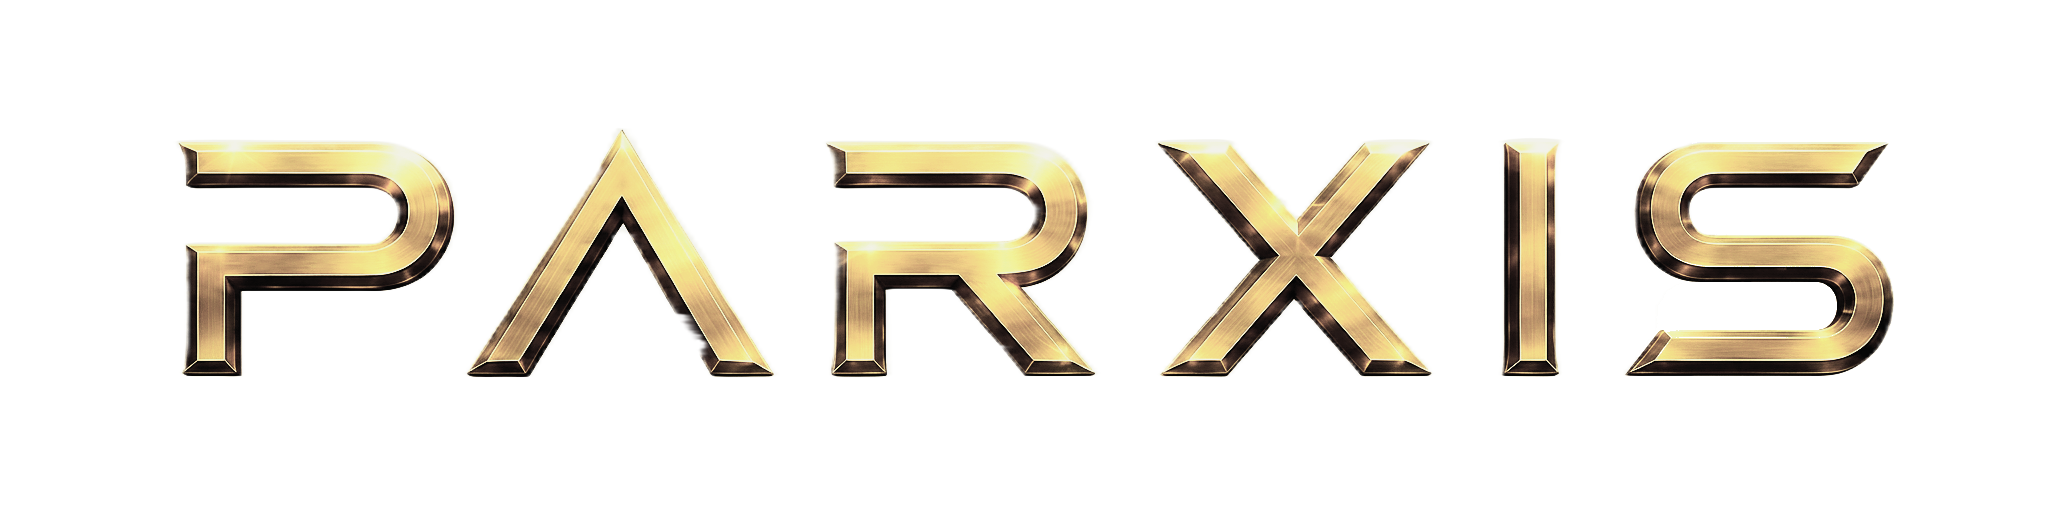
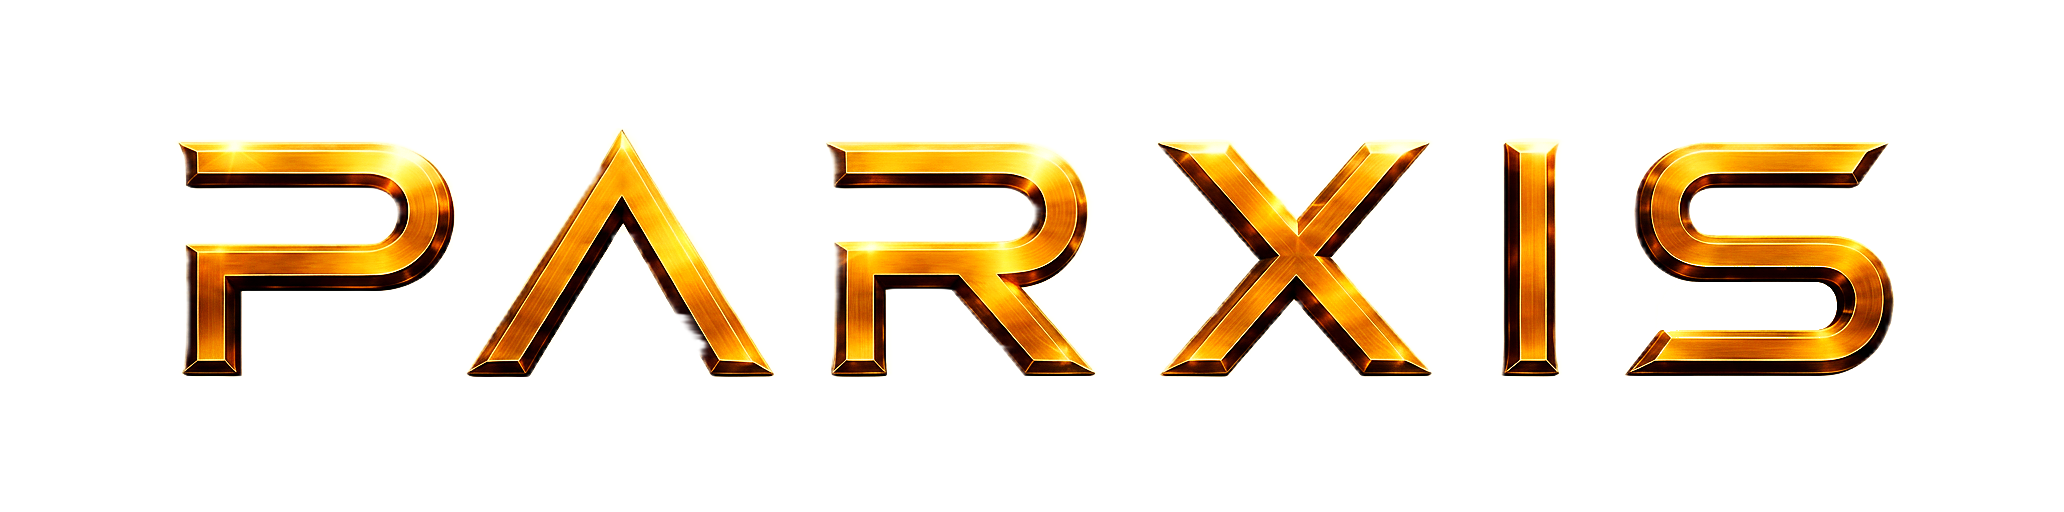
Changes

diff --git a/src/styles.css b/src/styles.css
@@ -66,12 +66,15 @@
   --obsidian: oklch(0.06 0.005 30);        /* #050505 preto obsidiana */
   --bordo: oklch(0.18 0.06 20);            /* #25070A bordô profundo */
   --bordo-hero: oklch(0.22 0.08 25);       /* #2C0D10 bordô hero */
-  /* Dourado neutro — escolhido: elegante e equilibrado */
-  --gold: oklch(0.764 0.088 88.9);         /* #C9B070 */
-  --gold-light: oklch(0.873 0.061 89.4);  /* #E5D4A8 */
-  --gold-medium: oklch(0.648 0.085 85.8);  /* #A68B4F */
-  --gold-deep: oklch(0.478 0.063 83.5);   /* #6E5A32 */
-
+  --gold: oklch(0.78 0.14 82);             /* #F2B817 ouro 18k */
+  --gold-light: oklch(0.87 0.13 88);       /* #FFD85A brilho */
+  --gold-medium: oklch(0.65 0.14 65);      /* #D99000 */
+  --gold-deep: oklch(0.48 0.11 55);        /* #9A5700 */
+  /* Champagne suave e elegante — menos alaranjado */
+  --gold: oklch(0.84 0.075 94);
+  --gold-light: oklch(0.91 0.06 96);
+  --gold-medium: oklch(0.72 0.08 90);
+  --gold-deep: oklch(0.55 0.07 80);
 
   --background: var(--obsidian);
   --foreground: oklch(0.96 0.02 80);
@@ -354,8 +357,8 @@
   background-repeat: no-repeat;
   background-size: contain;
   background-position: center;
-  /* PNG já processado no tom dourado neutro; ajuste fino de consistência */
-  filter: saturate(0.95) hue-rotate(-1deg) brightness(1.01);
+  /* Suaviza o dourado do PNG — menos laranja, mais champagne */
+  filter: saturate(0.72) hue-rotate(-8deg) brightness(1.04);
 }
 
 /* Luz-sweep prismática que atravessa o símbolo */
@@ -408,7 +411,7 @@
   background-size: contain;
   background-position: center;
   filter:
-    saturate(0.95) hue-rotate(-1deg) brightness(1.01)
+    saturate(0.72) hue-rotate(-8deg) brightness(1.04)
     drop-shadow(0 14px 30px rgba(0, 0, 0, 0.75))
     drop-shadow(0 0 22px color-mix(in oklch, var(--gold-light) 28%, transparent 72%));
 }
@@ -424,24 +427,20 @@
     height: min(78vw, 330px);
   }
 
-  /* PNG já processado; ajuste fino no mobile */
+  /* Reforça o champagne suave no mobile: menos saturação e húe mais neutro. */
   .parxis-symbol-img {
-    filter: saturate(0.92) hue-rotate(-2deg) brightness(1.02) !important;
+    filter: saturate(0.58) hue-rotate(-12deg) brightness(1.06) !important;
   }
 
   .parxis-wordmark {
     top: calc(50% + 84px);
     width: min(72vw, 305px);
     filter:
-      saturate(0.92) hue-rotate(-2deg) brightness(1.02)
+      saturate(0.58) hue-rotate(-12deg) brightness(1.06)
       drop-shadow(0 14px 30px rgba(0, 0, 0, 0.75))
       drop-shadow(0 0 22px color-mix(in oklch, var(--gold-light) 28%, transparent 72%))
       !important;
   }
-
-
-
-
 
   .parxis-shadow {
     top: calc(50% + 74px);
@@ -641,7 +640,7 @@ html[data-motion="reduce"] .parxis-aura-2   { opacity: 0.45; transform: translat
   background: linear-gradient(
     90deg,
     transparent 0%,
-    color-mix(in oklch, var(--gold) 60%, transparent 40%) 50%,
+    rgba(242, 184, 23, 0.6) 50%,
     transparent 100%
   );
 }
@@ -652,22 +651,21 @@ html[data-motion="reduce"] .parxis-aura-2   { opacity: 0.45; transform: translat
     rgba(37, 7, 10, 0.55) 0%,
     rgba(18, 5, 5, 0.75) 100%
   );
-  border: 1px solid color-mix(in oklch, var(--gold) 18%, transparent 82%);
+  border: 1px solid rgba(242, 184, 23, 0.18);
   box-shadow:
-    inset 0 1px 0 color-mix(in oklch, var(--gold-light) 5%, transparent 95%),
+    inset 0 1px 0 rgba(255, 216, 90, 0.05),
     0 24px 60px -30px rgba(0, 0, 0, 0.9);
   backdrop-filter: blur(6px);
   transition: border-color 0.5s ease, transform 0.5s ease, box-shadow 0.5s ease;
 }
 
 .parxis-card:hover {
-  border-color: color-mix(in oklch, var(--gold) 45%, transparent 55%);
+  border-color: rgba(242, 184, 23, 0.45);
   transform: translateY(-4px);
   box-shadow:
-    inset 0 1px 0 color-mix(in oklch, var(--gold-light) 8%, transparent 92%),
-    0 30px 80px -30px color-mix(in oklch, var(--gold) 25%, transparent 75%);
+    inset 0 1px 0 rgba(255, 216, 90, 0.08),
+    0 30px 80px -30px rgba(242, 184, 23, 0.25);
 }
-
 
 .parxis-reveal {
   animation: slowReveal 1.2s ease-out both;

diff --git a/src/routes/index.tsx b/src/routes/index.tsx
@@ -2,10 +2,11 @@ import { createFileRoute } from "@tanstack/react-router";
 import { useEffect, useRef, useState } from "react";
 import { supabase } from "@/integrations/supabase/client";
 import { toast } from "sonner";
-import parxisSymbolUrl from "@/assets/parxis-symbol.png";
-import parxisWordmarkUrl from "@/assets/parxis-wordmark.png";
+import parxisSymbolAsset from "@/assets/parxis-symbol.png.asset.json";
+import parxisWordmarkAsset from "@/assets/parxis-wordmark.png.asset.json";
 
-
+const parxisSymbolUrl = parxisSymbolAsset.url;
+const parxisWordmarkUrl = parxisWordmarkAsset.url;
 
 export const Route = createFileRoute("/")({
   component: Index,
